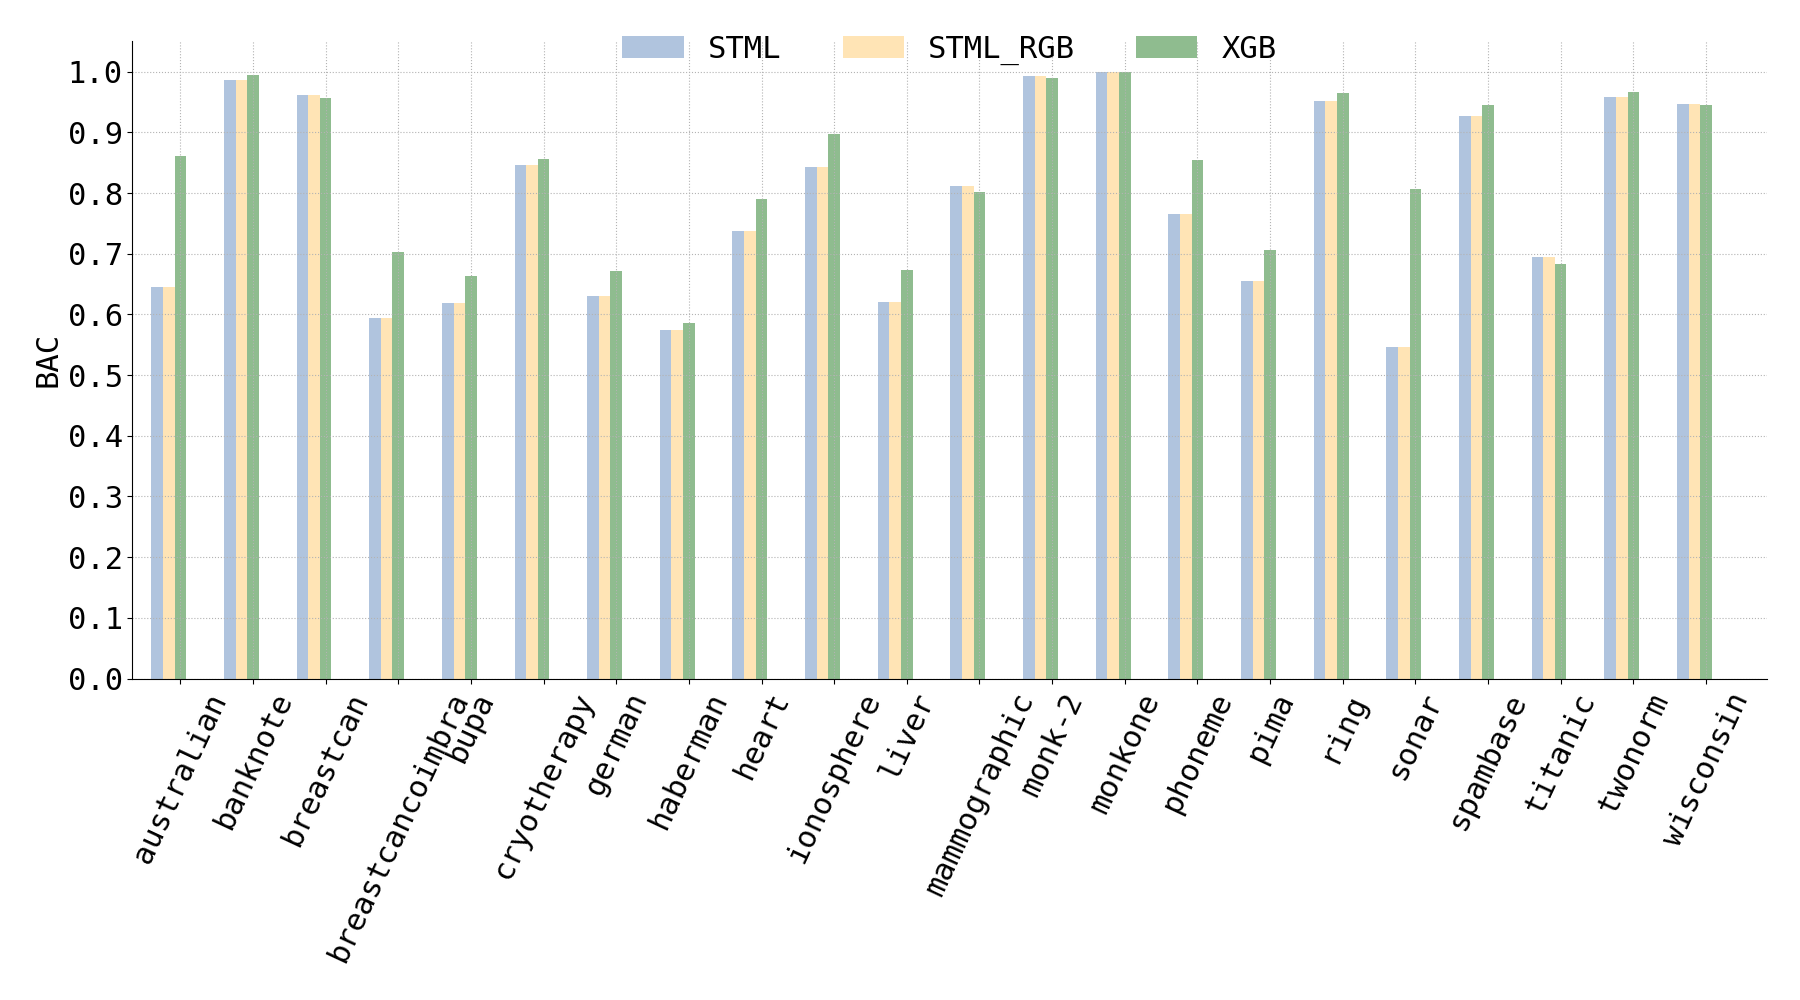
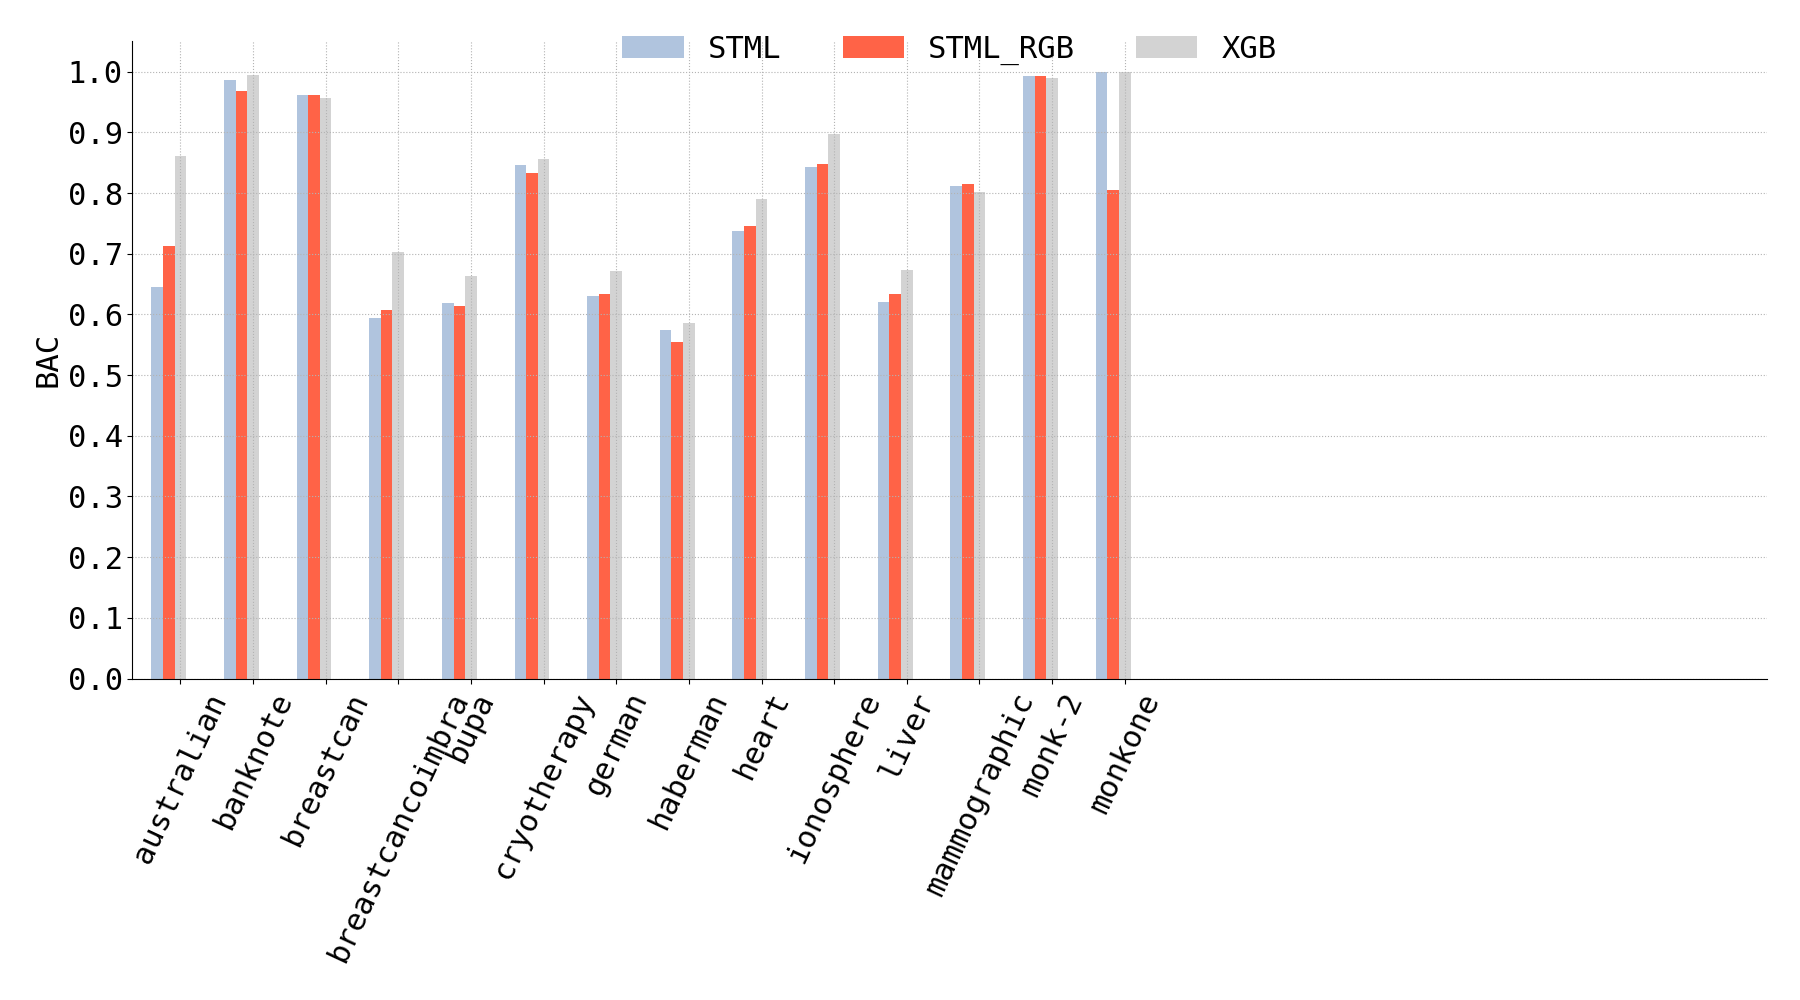
ABC.

diff --git a/mde/stml_rgb.py b/mde/stml_rgb.py
@@ -4,6 +4,8 @@ from tqdm import tqdm
 from sklearn.base import TransformerMixin
 from sklearn.feature_selection import SelectKBest
 import colorsys
+import matplotlib as mpl
+from sklearn.preprocessing import MinMaxScaler
 
 
 class STML_RGB(TransformerMixin):
@@ -16,19 +18,27 @@ class STML_RGB(TransformerMixin):
         self.X_ = X
         self.y_ = y
         self.n_features_ = self.X_.shape[1]
-        self.anova_ = SelectKBest(k='all').fit(self.X_, self.y_).scores_
+        self.anova_ = np.nan_to_num(SelectKBest(k='all').fit(self.X_, self.y_).scores_)
+        cmap = mpl.colormaps['gist_rainbow_r']
         self.mmanova_ = self.map_value(self.anova_, np.min(self.anova_), np.max(self.anova_), 0, 1)
-        self.colors_ = [list(self.get_color(self.mmanova_[i])) for i in range(len(self.mmanova_))]
-        
+        # self.colors_ = cmap(self.mmanova_)
+
+        self.colors_ = [self.hex_to_rgb(mpl.colors.to_hex(cmap(i))) for i in self.mmanova_]
+        # self.colors_ = [list(self.get_color(self.mmanova_[i])) for i in range(len(self.mmanova_))]
         return self
     
-    def get_color(self, red_to_green):
-        assert 0 <= red_to_green <= 1
-        # in HSV, red is 0 deg and green is 120 deg (out of 360);
-        # divide red_to_green with 3 to map [0, 1] to [0, 1./3.]
-        hue = red_to_green / 3.0
-        r, g, b = colorsys.hsv_to_rgb(hue, 1, 1)
-        return map(lambda x: int(255 * x), (r, g, b))
+    # def get_color(self, red_to_green):
+    #     assert 0 <= red_to_green <= 1
+    #     # in HSV, red is 0 deg and green is 120 deg (out of 360);
+    #     # divide red_to_green with 3 to map [0, 1] to [0, 1./3.]
+    #     hue = red_to_green / 3.0
+    #     r, g, b = colorsys.hsv_to_rgb(hue, 1, 1)
+    #     return map(lambda x: int(255 * x), (r, g, b))
+    
+    def hex_to_rgb(self, value):
+        value = value.lstrip('#')
+        lv = len(value)
+        return tuple(int(value[i:i + lv // 3], 16) for i in range(0, lv, lv // 3))
 
     def map_value(self, value, min_value, max_value, min_result, max_result):
         result = min_result + (value - min_value)/(max_value - min_value)*(max_result - min_result)
@@ -92,6 +102,120 @@ class STML_RGB(TransformerMixin):
                     draw.text((coords[id][0], coords[id][1]),
                             str(X[sample,id]),
                             font=font, fill=c[channel])
+                rgb_img.append(np.array(img))
+            rgb_img = np.stack(rgb_img, axis=0)
+            data[sample] = np.moveaxis(rgb_img, 0, 2)
+        return data.astype(np.uint8)
+    
+
+class STML_RGB2(TransformerMixin):
+    def __init__(self, size=(224, 224), verbose=False, n_cols=None):
+        self.size_ = size
+        self.verbose_ = verbose
+        self.n_cols_ = n_cols
+        
+    def fit(self, X, y):
+        self.X_ = X
+        self.y_ = y
+        self.n_features_ = self.X_.shape[1]
+        self.anova_ = np.nan_to_num(SelectKBest(k='all').fit(self.X_, self.y_).scores_)
+        # cmap = mpl.colormaps['gist_rainbow_r']
+        # self.mmanova_ = self.map_value(self.anova_, np.min(self.anova_), np.max(self.anova_), 0, 1)
+        # self.colors_ = cmap(self.mmanova_)
+
+        # self.colors_ = [self.hex_to_rgb(mpl.colors.to_hex(cmap(i))) for i in self.mmanova_]
+        # self.colors_ = [list(self.get_color(self.mmanova_[i])) for i in range(len(self.mmanova_))]
+
+        mms = MinMaxScaler((0, 255))
+        self.anova_ = mms.fit_transform(self.anova_.reshape(-1, 1)).reshape(1, -1).squeeze().astype(int)
+
+        self.mean_ = np.mean(self.X_, axis=0)
+        self.mean_ = mms.fit_transform(self.mean_.reshape(-1, 1)).reshape(1, -1).squeeze().astype(int)
+
+        self.std_ = np.std(self.X_, axis=0)
+        self.std_ = mms.fit_transform(self.std_.reshape(-1, 1)).reshape(1, -1).squeeze().astype(int)
+
+        self.colors_ = []
+        for i in range(self.X_.shape[1]):
+            self.colors_.append([self.mean_[i], self.std_[i], self.anova_[i]])
+
+        return self
+    
+    # def get_color(self, red_to_green):
+    #     assert 0 <= red_to_green <= 1
+    #     # in HSV, red is 0 deg and green is 120 deg (out of 360);
+    #     # divide red_to_green with 3 to map [0, 1] to [0, 1./3.]
+    #     hue = red_to_green / 3.0
+    #     r, g, b = colorsys.hsv_to_rgb(hue, 1, 1)
+    #     return map(lambda x: int(255 * x), (r, g, b))
+    
+    # def hex_to_rgb(self, value):
+    #     value = value.lstrip('#')
+    #     lv = len(value)
+    #     return tuple(int(value[i:i + lv // 3], 16) for i in range(0, lv, lv // 3))
+
+    def map_value(self, value, min_value, max_value, min_result, max_result):
+        result = min_result + (value - min_value)/(max_value - min_value)*(max_result - min_result)
+        return result
+
+    def transform(self, X):
+        if self.n_cols_ == None:
+            n_columns = 2 if self.n_features_ < 30 else 3
+        else:
+            n_columns = self.n_cols_
+
+        n_rows = np.ceil(self.n_features_/n_columns)
+        xs = np.ceil(self.size_[0]/n_columns)
+        ys = np.ceil(self.size_[0]/n_rows)
+        X = np.round(X, 4)
+        # Coords for each text
+        coords = []
+        for i in range(int(n_rows)):
+            for j in range(n_columns):
+                coords.append((xs*j, ys*i))
+
+        # Optmize font size
+        X_string = list(map(str, X[:,:self.n_features_].flatten().tolist()))
+        longest_feature = max(X_string, key=len)
+
+        max_font_size = 100
+        for tmp_font_size in range(1, max_font_size):
+            font = ImageFont.truetype("mde/FreeSans.ttf", tmp_font_size)
+            # feature_size = font.getsize(longest_feature)
+            feature_size = font.getbbox(longest_feature)[2:4]
+            # Stop if font is too large
+            if feature_size[0] >= xs or feature_size[1] >= ys:
+                break
+            # A little smaller font size to ensure readability
+            font_size = tmp_font_size-2
+
+        font = ImageFont.truetype("mde/FreeSans.ttf", font_size)
+
+        # Find longest string at a given font size for centering
+        max_string_length = 100
+        center_width = len(longest_feature)
+        for string_length in range(len(longest_feature), max_string_length):
+            tmp_longest = font.getbbox(''.join(" " for i in range(string_length+1)))[2:4]
+            if tmp_longest[0] >= xs:
+                break
+            center_width = string_length
+
+
+        # Container for full set
+        data = np.zeros((X.shape[0], self.size_[0], self.size_[1], 3))
+        for sample in tqdm(range(X.shape[0]), disable=not self.verbose_):
+            img = np.zeros((self.size_[0], self.size_[1])).astype(np.uint8)
+            img.fill(255)
+            img = Image.fromarray(img)
+            draw = ImageDraw.Draw(img)
+
+            rgb_img = []
+            for channel in range(3):
+                for id in range(self.n_features_):
+                    c = self.colors_[id]
+                    draw.text((coords[id][0], coords[id][1]),
+                            str(X[sample,id]),
+                            font=font, fill=int(c[channel]))
                 rgb_img.append(np.array(img))
             rgb_img = np.stack(rgb_img, axis=0)
             data[sample] = np.moveaxis(rgb_img, 0, 2)

diff --git a/analyze00.py b/analyze00.py
@@ -9,23 +9,24 @@ from tabulate import tabulate
 import matplotlib
 matplotlib.rcParams.update({'font.size': 22, "font.family" : "monospace"})
 
-
+n_data = 14
 data = Data(selection=("all", ["balanced", "binary"]), path="datasets/")
 datasets = data.load()
-datasets = list(datasets.keys())
+datasets = list(datasets.keys())[:n_data]
 encodings = ["STML", "STML_RGB", "XGB"]
 
 scores_stml = np.load("results/ex00_preliminary_stml_transfer_224_scores.npy")
+scores_stml_rgb = np.load("results/ex00_preliminary_stml_rgb_transfer_224_scores.npy")
 scores_xgb = np.load("results/xgb_scores.npy")
 
 # ENCODING x DATASETS x FOLDS x EPOCHS
-gathered = np.stack((scores_stml, scores_stml))
+gathered = np.stack((scores_stml, scores_stml_rgb))
 ttest_data = gathered[:, :, :, -1]
 ttest_data = np.concatenate((ttest_data, scores_xgb.reshape(1, 22, 10)), axis=0)
 
 # ENCODING x DATASETS
 gathered = np.mean(gathered, axis=2)[:, :, -1]
-gathered = np.concatenate((gathered, np.mean(scores_xgb, axis=1).reshape(1, 22)), axis=0)
+gathered = np.concatenate((gathered, np.mean(scores_xgb, axis=1).reshape(1, 22)), axis=0)[:, :n_data]
 
 # DATASETS x ENCODING
 gathered = gathered.T
@@ -39,14 +40,19 @@ width = 0.16  # the width of the bars
 multiplier = -1
 
 fig, ax = plt.subplots(1, 1, figsize=(18, 10))
-colors = ["lightsteelblue", "moccasin", "darkseagreen", "tomato", "lightgrey"]
-# colors = ["#7CB6F0", "#EEA529", "#6EB782", "tomato", "lightgrey"]
+# colors = ["lightsteelblue", "moccasin", "darkseagreen", "tomato", "lightgrey"]
+colors = ["lightsteelblue", "tomato", "lightgrey"]
 
 for encoding_id, encoding in enumerate(encodings):
     offset = width * multiplier
+    # if "RGB" in encoding:
+    #     rects = ax.bar(x + offset, gathered[:, encoding_id], width, label=encoding
+    #                , color=colors[encoding_id], edgecolor="tomato"
+    #                )
+    # else:
     rects = ax.bar(x + offset, gathered[:, encoding_id], width, label=encoding
-                   , color=colors[encoding_id]
-                   )
+                , color=colors[encoding_id]
+                )
     # ax.bar_label(rects, padding=3)
     multiplier += 1
 

diff --git a/analyze_epochs.py b/analyze_epochs.py
@@ -1,0 +1,48 @@
+import numpy as np
+import matplotlib.pyplot as plt
+from utils import Data
+from scipy.stats import rankdata
+# Stat
+from utils import cv52cft
+from scipy.stats import rankdata, wilcoxon
+from tabulate import tabulate
+from time import sleep
+import matplotlib
+matplotlib.rcParams.update({'font.size': 22, "font.family" : "monospace"})
+
+n_data = 14
+data = Data(selection=("all", ["balanced", "binary"]), path="datasets/")
+datasets = data.load()
+# datasets = list(datasets.keys())[:n_data]
+datasets = ["breastcancoimbra"]
+encodings = ["STML", "STML_RGB"]
+
+# scores_stml = np.load("results/ex00_preliminary_stml_transfer_224_scores.npy")
+# scores_stml_rgb = np.load("results/ex00_preliminary_stml_rgb_transfer_224_scores.npy")
+
+scores_stml = np.load("results/ex00_breastcancoimbra_epochs_stml.npy")
+scores_stml_rgb = np.load("results/ex00_breastcancoimbra_epochs_stml_rgb.npy")
+
+# ENCODING x DATASETS x FOLDS x EPOCHS
+gathered = np.stack((scores_stml, scores_stml_rgb))
+# ENCODING x DATASETS x EPOCHS
+gathered = np.mean(gathered, axis=2)
+
+colors = ["lightsteelblue", "tomato", "lightgrey"]
+
+for data_id, dataset in enumerate(datasets):
+    fig, ax = plt.subplots(1, 1, figsize=(18, 10))
+    ax.plot(gathered[0, data_id])
+    ax.plot(gathered[1, data_id])
+
+    ax.set_ylim(.5, 1)
+    # ax.set_xlim(0, 20)
+    plt.title(dataset)
+    plt.grid(ls=":", c=(.7, .7, .7))
+    plt.tight_layout()
+    plt.savefig("bar.png")
+    plt.close()
+    sleep(2)
+    # exit()
+# plt.savefig("figures/epochs.png")
+# plt.savefig("figures/comparison.eps")

diff --git a/_ex01.py b/_ex01.py
@@ -21,7 +21,7 @@ import matplotlib.pyplot as plt
 num_epochs = 20
 
 
-data = Data(selection=("all", ["balanced", "binary"]), path="datasets/")
+data = Data(selection=["breastcancoimbra"], path="datasets/")
 datasets = data.load()
 
 # Scores
@@ -50,6 +50,10 @@ for data_id, dataset_name in enumerate(tqdm(datasets)):
         # Train
         stml_rgb = STML_RGB2()
         X_encoded_train = stml_rgb.fit_transform(X[train_index], y[train_index])
+
+        # stml_rgb = STML()
+        # X_encoded_train = stml_rgb.fit_transform(X[train_index])
+
         X_encoded_train = torch.from_numpy(np.moveaxis(X_encoded_train, 3, 1)).float()
         y_train = torch.from_numpy(y[train_index]).long()
         
@@ -104,4 +108,4 @@ for data_id, dataset_name in enumerate(tqdm(datasets)):
             
             scores[data_id, fold_id, epoch] = balanced_accuracy_score(y_test, preds)
             
-        np.save("results/ex00_preliminary_stml_rgb_transfer_224_scores", scores)
+        np.save("results/ex00_breastcancoimbra_epochs_stml_rgb", scores)

diff --git a/test.py b/test.py
@@ -1,6 +1,6 @@
 from sklearn.datasets import make_classification
 import numpy as np
-from mde import STML, STML_RGB
+from mde import STML, STML_RGB, STML_RGB2
 import matplotlib.pyplot as plt
 
 
@@ -11,7 +11,7 @@ print(X[0])
 stml = STML()
 X_stml = stml.fit_transform(X)
 
-stml_rgb = STML_RGB()
+stml_rgb = STML_RGB2()
 X_stml_rgb = stml_rgb.fit_transform(X, y)
 
 fig, ax = plt.subplots(1, 2, figsize=(20, 10))

diff --git a/mde/__init__.py b/mde/__init__.py
@@ -1,5 +1,5 @@
 from .stml import STML
-from .stml_rgb import STML_RGB
+from .stml_rgb import STML_RGB, STML_RGB2
 
 
-__all__ = ["SMTL", "STML_RGB"]
+__all__ = ["SMTL", "STML_RGB", "STML_RGB2"]
